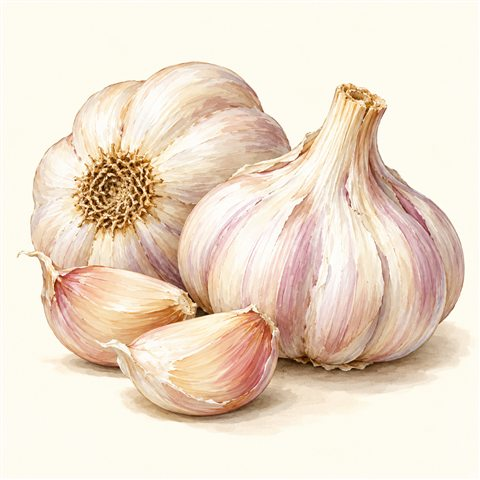
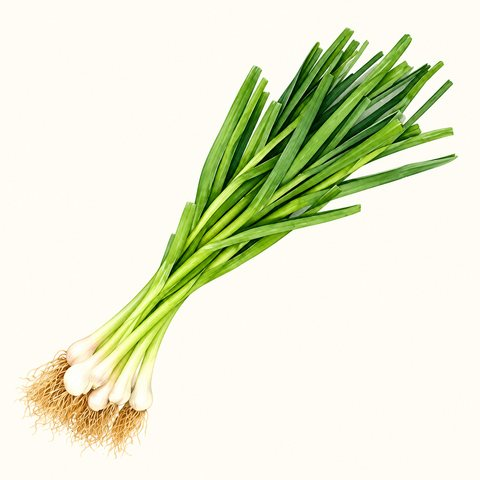
Correct cauliflower and garlic shoots cartoon art

diff --git a/store-data.js b/store-data.js
@@ -301,7 +301,7 @@ window.STALL = {
     },
     {
         "id": "cauliflower",
-        "name": "菜花",
+        "name": "椰菜花",
         "category": "瓜果",
         "unit": "公斤",
         "price": 14.0,

diff --git a/CARTOON-ARTWORK.md b/CARTOON-ARTWORK.md
@@ -38,7 +38,7 @@ Generated illustrations are not a guarantee that no similar work exists or that 
 | celery | 西芹 | [celery.jpg](images/cartoon/celery.jpg) |
 | sweet-peas | 甜豆 | [sweet-peas.jpg](images/cartoon/sweet-peas.jpg) |
 | pea-shoots | 豆苗 | [pea-shoots.jpg](images/cartoon/pea-shoots.jpg) |
-| cauliflower | 菜花 | [cauliflower.jpg](images/cartoon/cauliflower.jpg) |
+| cauliflower | 椰菜花 | [cauliflower.jpg](images/cartoon/cauliflower.jpg) |
 | chive-flowers | 韭菜花 | [chive-flowers.jpg](images/cartoon/chive-flowers.jpg) |
 | enoki-mushroom | 金针菇 | [enoki-mushroom.jpg](images/cartoon/enoki-mushroom.jpg) |
 | white-mushroom | 鲍鱼菇 | [white-mushroom.jpg](images/cartoon/white-mushroom.jpg) |
